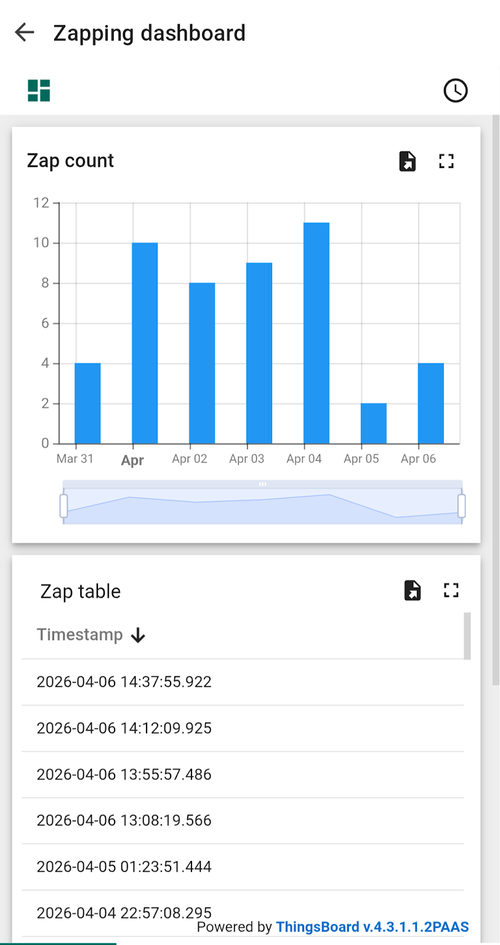
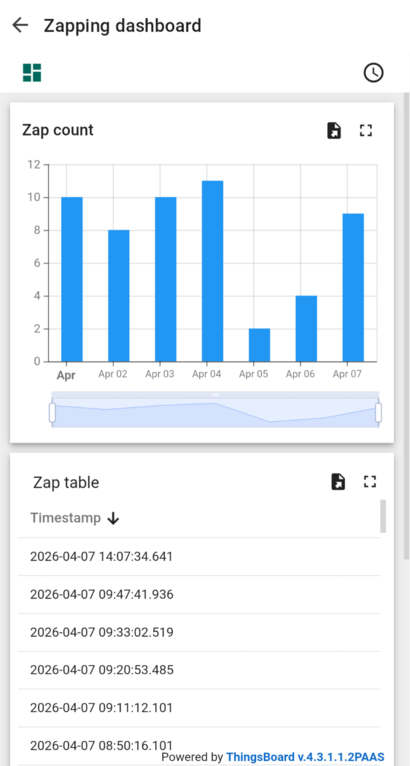
Small changes

diff --git a/assets/custom.css b/assets/custom.css
@@ -15,6 +15,13 @@ blockquote {
   flex: 1;
 }
 
+.footnotes {
+  border-top: 1px solid #e8e8e8;
+  margin-top: 2em;
+  padding-top: 1em;
+  font-size: 0.9em;
+}
+
 .lightbox {
   display: none;
   position: fixed;
